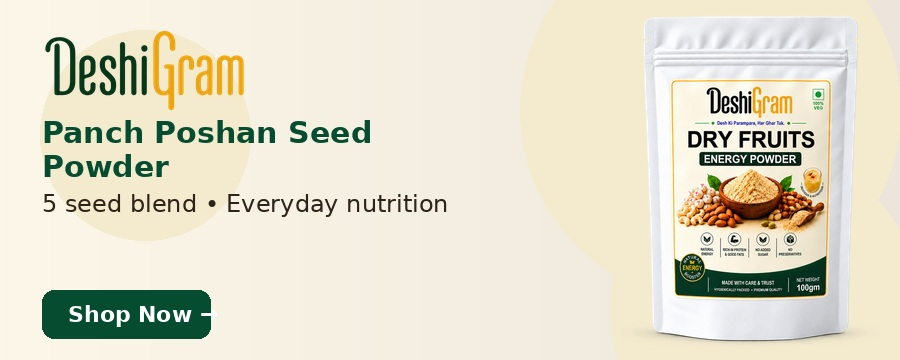
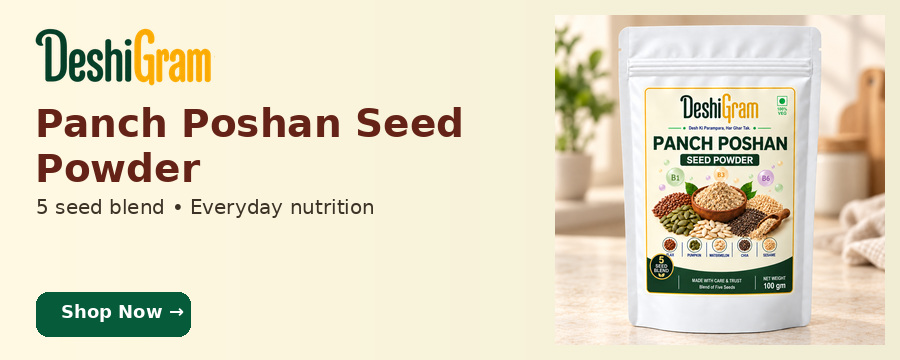
Add files via upload
updates

diff --git a/index.html b/index.html
@@ -1,4 +1,4 @@
-<!DOCTYPE html><html lang="en"><head><meta charset="utf-8"><meta name="viewport" content="width=device-width,initial-scale=1"><title>DeshiGram | Desh Ki Parampara, Har Ghar Tak</title><link rel="stylesheet" href="css/style.css"><link rel="stylesheet" href="css/commerce-home.css?v=premium-final-1"><link rel="stylesheet" href="css/footer.css"><link rel="stylesheet" href="css/product.css"><link rel="stylesheet" href="css/sticky-header.css"><meta name="theme-color" content="#064c31"></head><body>
+<!DOCTYPE html><html lang="en"><head><meta charset="utf-8"><meta name="viewport" content="width=device-width,initial-scale=1"><title>DeshiGram | Desh Ki Parampara, Har Ghar Tak</title><link rel="stylesheet" href="css/style.css"><link rel="stylesheet" href="css/commerce-home.css?v=premium-final-1"><link rel="stylesheet" href="css/premium-carousel.css?v=2"><link rel="stylesheet" href="css/footer.css"><link rel="stylesheet" href="css/product.css"><link rel="stylesheet" href="css/sticky-header.css"><meta name="theme-color" content="#064c31"></head><body>
 <div class="premium-top"><span>📍 Deliver to: Bharthana, Etawah (206242)</span><span>Desh ki parampara har ghar tak</span><span>🇮🇳 Made in India &nbsp;&nbsp; 🛡 GST Certified &nbsp;&nbsp; 🎧 Support</span></div>
 <header class="premium-header">
   <a class="premium-brand" href="index.html"><img src="images/deshigram-wordmark.png" alt="DeshiGram"><small>Desh ki parampara har ghar tak</small></a>
@@ -8,9 +8,25 @@
 </header>
 <main class="premium-main">
   <section class="premium-hero-grid">
-    <a class="premium-hero" href="products.html"><img src="images/hero-dry-fruits-approved.jpg" alt="Dry Fruits Energy Powder"></a>
-    <div class="premium-side"><a href="products.html"><img src="images/premium-panch.jpg" alt="Panch Poshan Seed Powder"></a><a href="products.html"><img src="images/promo-healthy-choices-approved.jpg" alt="Healthy choices"></a></div>
-  </section>
+  <div class="premium-carousel" data-premium-carousel>
+    <div class="premium-slides">
+      <a class="premium-slide is-active" href="products.html"><img src="images/hero-dry-fruits.jpg" alt="Dry Fruits Energy Powder"></a>
+      <a class="premium-slide" href="products.html"><img src="images/hero-panch-poshan.jpg" alt="Panch Poshan Seed Powder"></a>
+      <a class="premium-slide" href="products.html"><img src="images/hero-signature.jpg" alt="DeshiGram Healthy Choices"></a>
+    </div>
+    <button class="premium-arrow prev" type="button" aria-label="Previous banner">‹</button>
+    <button class="premium-arrow next" type="button" aria-label="Next banner">›</button>
+    <div class="premium-dots" aria-label="Banner navigation">
+      <button class="is-active" type="button" aria-label="Banner 1"></button>
+      <button type="button" aria-label="Banner 2"></button>
+      <button type="button" aria-label="Banner 3"></button>
+    </div>
+  </div>
+  <div class="premium-side">
+    <a href="products.html"><img src="images/promo-panch-poshan.jpg" alt="Panch Poshan Seed Powder"></a>
+    <a href="products.html"><img src="images/promo-dry-fruits.jpg" alt="Dry Fruits Energy Powder"></a>
+  </div>
+</section>
   <section class="premium-trust"><div>🌿 <span><b>Natural Ingredients</b><small>Pure and high quality</small></span></div><div>🛡 <span><b>Premium Quality</b><small>Hygienically packed</small></span></div><div>♥ <span><b>Trusted by Families</b><small>From kids to adults</small></span></div><div>🚚 <span><b>Pan India Delivery</b><small>Safe & secure shipping</small></span></div></section>
   <section class="premium-products"><div class="premium-section-title"><div><h2>Our Best Sellers</h2><p>Pure, healthy and traditional foods for your family</p></div><a href="products.html">View All Products →</a></div><div class="premium-product-row" data-dg-catalog data-view="home"><div class="seller-market-loading">Loading products…</div></div></section>
 </main>
@@ -19,7 +35,7 @@
 </a><footer class="footer dg-market-footer">
   <div class="container dg-market-footer-grid">
     <div class="dg-footer-brand">
-      <img src="images/logo.webp" alt="DeshiGram">
+      <img src="images/deshigram-wordmark.png" alt="DeshiGram">
       <p>Desh Ki Parampara, Har Ghar Tak.</p>
       <div class="dg-socials" aria-label="DeshiGram social media">
         <a href="https://www.instagram.com/deshigram.in/" target="_blank" rel="noopener" aria-label="Instagram" class="dg-social dg-instagram">
@@ -85,5 +101,5 @@
 </div></footer>
 <script src="js/integrations.js"></script><script src="js/reviews.js"></script><script src="js/products-data.js"></script><script src="js/cart.js"></script><script src="js/catalog.js"></script><script src="js/script.js"></script>
 <script src="js/login-choice.js"></script><script defer src="js/website-customization.js?v=diwali-2026"></script>
-</body>
+<script src="js/premium-carousel.js?v=2"></script></body>
 </html>

diff --git a/css/premium-carousel.css b/css/premium-carousel.css
@@ -1,0 +1,31 @@
+
+/* DeshiGram premium homepage carousel */
+.premium-brand img{width:250px!important;height:auto!important;max-height:78px!important;object-fit:contain}
+.premium-hero-grid{display:grid;grid-template-columns:minmax(0,1.62fr) minmax(330px,.98fr);gap:12px;padding:12px 18px 0}
+.premium-carousel{position:relative;overflow:hidden;border-radius:14px;background:#f5f1e7;box-shadow:0 3px 18px rgba(16,60,40,.08)}
+.premium-slides{position:relative;width:100%;aspect-ratio:1500/650}
+.premium-slide{position:absolute;inset:0;opacity:0;visibility:hidden;transition:opacity .55s ease,visibility .55s ease}
+.premium-slide.is-active{opacity:1;visibility:visible}
+.premium-slide img{width:100%;height:100%;display:block;object-fit:cover}
+.premium-arrow{position:absolute;top:50%;transform:translateY(-50%);z-index:4;width:42px;height:42px;border:0;border-radius:50%;background:rgba(255,255,255,.94);color:#064c31;font-size:34px;line-height:1;cursor:pointer;box-shadow:0 2px 12px rgba(0,0,0,.16)}
+.premium-arrow.prev{left:14px}.premium-arrow.next{right:14px}
+.premium-dots{position:absolute;z-index:5;left:50%;bottom:15px;transform:translateX(-50%);display:flex;gap:8px}
+.premium-dots button{width:11px;height:11px;padding:0;border:2px solid #fff;border-radius:50%;background:rgba(255,255,255,.45);cursor:pointer;box-shadow:0 1px 4px rgba(0,0,0,.25)}
+.premium-dots button.is-active{background:#0a6845}
+.premium-side{display:grid!important;grid-template-rows:1fr 1fr;gap:12px;min-width:0}
+.premium-side a{overflow:hidden;border-radius:14px;background:#fff;box-shadow:0 3px 18px rgba(16,60,40,.07)}
+.premium-side img{width:100%;height:100%;object-fit:cover;display:block}
+.dg-footer-brand img{width:190px!important;height:auto!important;object-fit:contain}
+@media(max-width:900px){
+ .premium-hero-grid{grid-template-columns:1fr;padding:8px}
+ .premium-side{grid-template-columns:1fr 1fr;grid-template-rows:auto}
+ .premium-side img{aspect-ratio:2.5/1;height:auto}
+ .premium-arrow{width:36px;height:36px;font-size:29px}
+}
+@media(max-width:560px){
+ .premium-brand img{width:165px!important;max-height:55px!important}
+ .premium-side{grid-template-columns:1fr}
+ .premium-slides{aspect-ratio:1.45/1}
+ .premium-slide img{object-fit:cover}
+ .premium-side img{aspect-ratio:2.45/1}
+}

diff --git a/js/premium-carousel.js b/js/premium-carousel.js
@@ -1,0 +1,23 @@
+
+document.addEventListener("DOMContentLoaded",()=>{
+  const root=document.querySelector("[data-premium-carousel]");
+  if(!root) return;
+  const slides=[...root.querySelectorAll(".premium-slide")];
+  const dots=[...root.querySelectorAll(".premium-dots button")];
+  let i=0,timer=null;
+  const show=n=>{
+    i=(n+slides.length)%slides.length;
+    slides.forEach((s,x)=>s.classList.toggle("is-active",x===i));
+    dots.forEach((d,x)=>d.classList.toggle("is-active",x===i));
+  };
+  const start=()=>{clearInterval(timer);timer=setInterval(()=>show(i+1),4500)};
+  root.querySelector(".next").addEventListener("click",()=>{show(i+1);start()});
+  root.querySelector(".prev").addEventListener("click",()=>{show(i-1);start()});
+  dots.forEach((d,x)=>d.addEventListener("click",()=>{show(x);start()}));
+  root.addEventListener("mouseenter",()=>clearInterval(timer));
+  root.addEventListener("mouseleave",start);
+  let sx=0;
+  root.addEventListener("touchstart",e=>sx=e.touches[0].clientX,{passive:true});
+  root.addEventListener("touchend",e=>{const dx=e.changedTouches[0].clientX-sx;if(Math.abs(dx)>45){show(i+(dx<0?1:-1));start()}},{passive:true});
+  start();
+});
